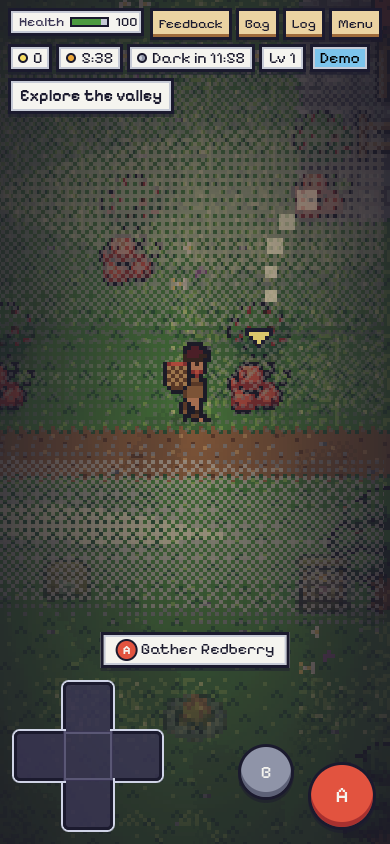
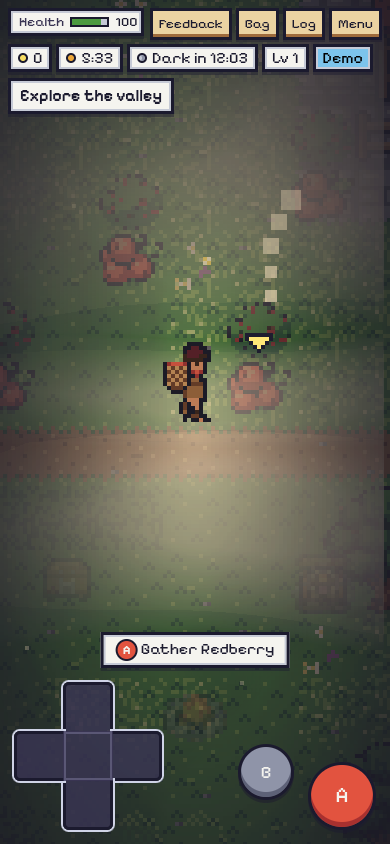
fix(client): fog reads pale like fog, and the cloud shade is seen
The owner's notes: the first cut of the banks was coarse and read as smoke,
and the clouds never showed at all.

- the banks are a pale veil now, `#f5f4ef` over a `#c6cad6` rim at up to 80%
  of their own alpha, brightest through the middle and gone at the rim, with
  no dither: fog reads white, not grey dots
- both layers are baked at the world's density of four, so a texel lands on a
  screen pixel instead of a block of four
- the cloud shade is `#172a52` at 34% in one step with a thin rim, 192 units
  wide and anchored in the world, and drawn as three by three copies of one
  patch: a tile sprite drew its overlapping edge twice and doubled the shade,
  which is why no cloud could be seen

Changed region(s): [[0.0, 0.0308, 0.9846, 0.8009], [0.9538, 0.154, 0.9846, 0.1848], [0.3385, 0.0, 0.3692, 0.0308]]

diff --git a/game/src/scenes/world.ts b/game/src/scenes/world.ts
@@ -49,7 +49,7 @@ import { HOLE, LIGHT_POOL, dappleAt, duskAt, frameAt, nightAt, shadeAt } from '.
 import { STONE_GLIDE_MS, STONE_STEPS, type StoneView, stoneView } from '../stone';
 import { type Clear, mistClears, mistDensity, mistPixels, mistRadius, mistStep, moteAt } from '../mist';
 import { FOG_ATLAS, FOG_ATLAS_W, FOG_FEATHER, FOG_OFFSETS, FOG_TILE, fogPixels } from '../fog';
-import { BANK_DRIFT, BANK_TILE, CLOUD_TILE, bankPixels, cloudOffset, cloudPixels, fogStrength } from '../sky';
+import { AIR_DENSITY, BANK_DRIFT, BANK_TILE, CLOUD_TILE, bankPixels, cloudOffset, cloudPixels, fogStrength } from '../sky';
 import { DIRS, type Dir } from '../input';
 import { ECHOES, WHISPERS, pickOf } from '../lore';
 import { TOO_DARK, feedTooLate, fireLow, fireName, readable, woodToFeed } from '../fires';
@@ -302,8 +302,8 @@ export class WorldScene extends Phaser.Scene {
   private campGlows = new Map<string, Glow>();
   private embers = new Map<string, Emitter>();
   private fogs: Phaser.GameObjects.Image[] = [];
-  /** the cloud shade over the ground by day, and the fog banks that lie in the valley (sky.ts) */
-  private cloud?: Phaser.GameObjects.TileSprite;
+  /** the cloud shade over the ground by day, one patch repeated, and the fog banks that lie in the valley (sky.ts) */
+  private clouds: Phaser.GameObjects.Image[] = [];
   private banks: { spr: Phaser.GameObjects.TileSprite; drift: number; at: number }[] = [];
   private fogMotes: Emitter[] = [];
   private dapples: Phaser.GameObjects.TileSprite[] = [];
@@ -1302,13 +1302,22 @@ export class WorldScene extends Phaser.Scene {
    */
   private buildAir(): void {
     if (!RICH.light) return;
-    const cloudTex = this.textures.createCanvas('fx-cloud', CLOUD_TILE, CLOUD_TILE);
+    // both textures are baked at the world's own density, so a texel lands on a screen pixel and no shape is
+    // drawn twice its size; a tile is then a quarter of its own pixels, which tileScale says
+    const side = CLOUD_TILE * AIR_DENSITY;
+    const cloudTex = this.textures.createCanvas('fx-cloud', side, side);
     if (cloudTex) {
-      const img = cloudTex.getContext().createImageData(CLOUD_TILE, CLOUD_TILE);
-      img.data.set(cloudPixels());
+      const img = cloudTex.getContext().createImageData(side, side);
+      img.data.set(cloudPixels(side));
       cloudTex.getContext().putImageData(img, 0, 0);
       cloudTex.refresh();
-      this.cloud = this.add.tileSprite(0, 0, T, T, 'fx-cloud').setOrigin(0).setDepth(DEPTH.flat - 0.3).setAlpha(0);
+      // three by three copies of one patch: a tile sprite drew its overlapping edge twice and doubled the shade
+      for (let j = 0; j < 3; j++) {
+        for (let i = 0; i < 3; i++) {
+          const img = this.add.image(0, 0, 'fx-cloud').setOrigin(0).setScale(1 / AIR_DENSITY).setDepth(DEPTH.flat - 0.3).setAlpha(0);
+          this.clouds.push(img);
+        }
+      }
     }
     const banks = [
       { key: 'fx-bank-high', tile: BANK_TILE.high, drift: BANK_DRIFT.high, at: 0.22, seed: 1.7 },
@@ -1317,13 +1326,15 @@ export class WorldScene extends Phaser.Scene {
     ];
     for (const b of banks) {
       const wide = 24 * T;
-      const tex = this.textures.createCanvas(b.key, wide, b.tile);
+      const px = wide * AIR_DENSITY;
+      const ph = b.tile * AIR_DENSITY;
+      const tex = this.textures.createCanvas(b.key, px, ph);
       if (!tex) continue;
-      const img = tex.getContext().createImageData(wide, b.tile);
-      img.data.set(bankPixels(wide, b.tile, b.seed));
+      const img = tex.getContext().createImageData(px, ph);
+      img.data.set(bankPixels(px, ph, b.seed));
       tex.getContext().putImageData(img, 0, 0);
       tex.refresh();
-      const spr = this.add.tileSprite(0, 0, wide / 2, b.tile, b.key).setOrigin(0).setAlpha(0);
+      const spr = this.add.tileSprite(0, 0, wide / 2, b.tile, b.key).setOrigin(0).setAlpha(0).setTileScale(1 / AIR_DENSITY);
       this.banks.push({ spr, drift: b.drift, at: b.at });
     }
   }
@@ -1334,11 +1345,14 @@ export class WorldScene extends Phaser.Scene {
    */
   private driftAir(time: number, delta: number): void {
     const view = this.cameras.main.worldView;
-    if (this.cloud) {
+    if (this.clouds.length > 0) {
+      // the patch is anchored in the world and wraps at its own edge, so the copies hand the cloud on to each other
       const off = cloudOffset(time);
-      this.cloud.setPosition(view.x - CLOUD_TILE / 2, view.y - CLOUD_TILE / 2);
-      this.cloud.setSize(view.width + CLOUD_TILE, view.height + CLOUD_TILE);
-      this.cloud.setTilePosition(view.x + off.x, view.y + off.y);
+      const dx = ((off.x % CLOUD_TILE) + CLOUD_TILE) % CLOUD_TILE;
+      const dy = ((off.y % CLOUD_TILE) + CLOUD_TILE) % CLOUD_TILE;
+      const left = Math.floor(view.x) - CLOUD_TILE + dx;
+      const top = Math.floor(view.y) - CLOUD_TILE + dy;
+      this.clouds.forEach((img, k) => img.setPosition(left + (k % 3) * CLOUD_TILE, top + Math.floor(k / 3) * CLOUD_TILE));
     }
     for (const b of this.banks) {
       b.spr.setPosition(view.x - b.spr.width / 2, view.y + view.height * b.at - b.spr.height / 2);
@@ -2094,10 +2108,10 @@ export class WorldScene extends Phaser.Scene {
     for (const d of this.dapples) d.setAlpha(dappleAt(this.night));
     // the cloud shade goes with the sun; the banks gather before dawn and after dusk (sky.ts)
     const fog = fogStrength(minute);
-    this.cloud?.setAlpha(1 - this.night);
+    for (const c of this.clouds) c.setAlpha(1 - this.night);
     // the banks keep their pale tone through the dark, so the night's one shade does not swallow them
-    const weight = [0.6, 0.45, 0.85];
-    this.banks.forEach((b, i) => b.spr.setAlpha(Math.min(0.85, fog * (weight[i] ?? 0.6) * (1 + 0.7 * this.night))));
+    const weight = [0.9, 0.7, 1];
+    this.banks.forEach((b, i) => b.spr.setAlpha(Math.min(0.95, fog * (weight[i] ?? 0.9) * (1 + 0.4 * this.night))));
     this.showHazards(s);
     const isNight = this.night >= 0.5;
     if (isNight !== this.wasNight) {

diff --git a/game/src/sky.ts b/game/src/sky.ts
@@ -6,17 +6,22 @@
 import { T } from './config';
 
 /** Side of the cloud shade patch, in art pixels. It wraps, so one tile covers the view at any scroll. */
-export const CLOUD_TILE = 128;
-/** The ink over the ground: `#1b1a2e` at 12%, the number STYLE section 7 gives. */
-export const CLOUD_ALPHA = Math.round(0.15 * 255);
+export const CLOUD_TILE = 192;
+/** The ink over the ground: `#1b1a2e` at 12% at a cloud's rim and 28% through its heart, so the shape reads. */
+export const CLOUD_ALPHA = Math.round(0.34 * 255);
+/** The rim's share of `CLOUD_ALPHA`, at the very edge of a cloud. */
+export const CLOUD_RIM = 0.43;
+/** Art pixels a screen pixel: the world camera runs at four, so a texture is baked at this density to stay sharp. */
+export const AIR_DENSITY = 4;
 /** How the patch drifts, art pixels a second: a slow cross-wind, the same one the fire leans with. */
 export const CLOUD_DRIFT = { x: 1.7, y: 0.55 } as const;
 
-const INK = [0x1b, 0x1a, 0x2e] as const;
-const BAYER = [0, 8, 2, 10, 12, 4, 14, 6, 3, 11, 1, 9, 15, 7, 13, 5] as const;
+const INK = [0x17, 0x2a, 0x52] as const;
 
-/** The three tones of a bank: its rim, its body and its crest, all from the grey ramp. */
-export const BANK_RGB = { rim: [0x8f, 0x94, 0xa8], body: [0xc6, 0xca, 0xd6], crest: [0xf5, 0xf4, 0xef] } as const;
+/** The three tones of a bank, at the pale end of the grey ramp: a light rim and a near-white body. */
+export const BANK_RGB = { rim: [0xc6, 0xca, 0xd6], body: [0xf5, 0xf4, 0xef], crest: [0xf5, 0xf4, 0xef] } as const;
+/** How solid a bank's heart is: a veil, not a wall, so the ground still reads under it. */
+export const BANK_ALPHA = 0.8;
 
 /** The cloud shade's field at an art pixel of the patch: three wrapped harmonics, so the patch tiles seamlessly. */
 export function cloudField(x: number, y: number, size = CLOUD_TILE): number {
@@ -32,21 +37,24 @@ export function cloudField(x: number, y: number, size = CLOUD_TILE): number {
 }
 
 /**
- * One patch of cloud shade as RGBA bytes: the ink at `CLOUD_ALPHA` inside a cloud, nothing outside, and a rim
- * thinned in dots so the shape has no straight edge. A patch tiles with itself on all four sides.
+ * One patch of cloud shade as RGBA bytes: the ink at `CLOUD_ALPHA` through the middle of a cloud, thinning over
+ * the last fifth of its edge so the shape has no cut line. A patch tiles with itself on all four sides.
  */
-export function cloudPixels(size = CLOUD_TILE): Uint8ClampedArray<ArrayBuffer> {
+export function cloudPixels(size = CLOUD_TILE * AIR_DENSITY): Uint8ClampedArray<ArrayBuffer> {
   const out = new Uint8ClampedArray(new ArrayBuffer(size * size * 4));
   for (let y = 0; y < size; y++) {
     for (let x = 0; x < size; x++) {
       const f = cloudField(x, y, size);
-      const rim = (BAYER[(y & 3) * 4 + (x & 3)]! + 0.5) / 16;
-      if (f <= 0.56 + 0.06 * rim) continue;
+      // a wider sky under cloud than the field's own half, so a cloud is met often and its edge is a ramp
+      // a shade has an edge, not a fog: one step in, and a rim of two hundredths of the field to soften it
+      const edge = Math.min(1, Math.max(0, (f - 0.5) / 0.02));
+      if (edge <= 0) continue;
+      const heart = 1;
       const i = 4 * (y * size + x);
       out[i] = INK[0];
       out[i + 1] = INK[1];
       out[i + 2] = INK[2];
-      out[i + 3] = CLOUD_ALPHA;
+      out[i + 3] = Math.round(CLOUD_ALPHA * edge * (CLOUD_RIM + (1 - CLOUD_RIM) * heart));
     }
   }
   return out;
@@ -65,23 +73,25 @@ export function cloudOffset(tick: number): { x: number; y: number } {
  */
 export function bankPixels(w: number, h: number, seed: number, crest = true): Uint8ClampedArray<ArrayBuffer> {
   const out = new Uint8ClampedArray(new ArrayBuffer(w * h * 4));
+  const s = seed * 97;
   for (let y = 0; y < h; y++) {
     for (let x = 0; x < w; x++) {
       // the band's own centre line rises and falls along its length, so neither edge is a straight line
-      const centre = 0.5 + 0.09 * Math.sin(x / 113 + seed) + 0.05 * Math.sin(x / 47 + seed * 2.3);
+      const centre = 0.5 + 0.09 * Math.sin(x / (w / 7) + s) + 0.05 * Math.sin(x / (w / 17) + s * 2.3);
+      const fy = Math.max(0, 1 - Math.abs((y + 0.5) / h - centre) * 2);
+      const wob = 0.72 + 0.28 * Math.sin(x / (w / 11) + s) * Math.cos(x / (w / 5.2) + s * 1.7);
       // a window at each edge, so a band whose middle wanders up still leaves the rows above it clear
-      const edge = Math.min(1, (y + 0.5) / (h * 0.1), (h - y - 0.5) / (h * 0.1));
-      const fy = Math.max(0, 1 - Math.abs((y + 0.5) / h - centre) * 2) * Math.max(0, edge);
-      const wob = 0.66 + 0.34 * Math.sin(x / 71 + seed) * Math.cos(x / 149 + seed * 1.7);
-      const v = Math.pow(fy, 0.5) * wob;
-      const step = (BAYER[(y & 3) * 4 + (x & 3)]! + 0.5) / 16;
-      if (v <= step) continue;
-      const c = crest && v > 0.62 ? BANK_RGB.crest : v > 0.3 ? BANK_RGB.body : BANK_RGB.rim;
+      const win = Math.min(1, (y + 0.5) / (h * 0.12), (h - y - 0.5) / (h * 0.12));
+      const v = Math.pow(fy, 0.55) * wob * Math.max(0, win);
+      // a soft veil: the band's own colour at a low alpha, brightest at its heart, gone at its rim
+      const a = Math.min(1, Math.max(0, (v - 0.08) / 0.55));
+      if (a <= 0) continue;
+      const c = crest && v > 0.6 ? BANK_RGB.crest : v > 0.3 ? BANK_RGB.body : BANK_RGB.rim;
       const i = 4 * (y * w + x);
       out[i] = c[0];
       out[i + 1] = c[1];
       out[i + 2] = c[2];
-      out[i + 3] = 255;
+      out[i + 3] = Math.round(255 * a * BANK_ALPHA);
     }
   }
   return out;
@@ -101,4 +111,4 @@ export function fogStrength(minute: number): number {
 export const BANK_DRIFT = { high: 2.2, thin: 3.1, low: 3.6 } as const;
 
 /** A tile of a bank's own height: the high bank hung over the valley, the low one on the ground. */
-export const BANK_TILE = { high: 5 * T, thin: 2 * T, low: 3 * T } as const;
+export const BANK_TILE = { high: 6 * T, thin: 2 * T, low: 4 * T } as const;

diff --git a/game/test/sky.test.ts b/game/test/sky.test.ts
@@ -1,5 +1,5 @@
 import { describe, expect, it } from 'vitest';
-import { BANK_RGB, BANK_TILE, CLOUD_ALPHA, CLOUD_TILE, bankPixels, cloudField, cloudOffset, cloudPixels, fogStrength } from '../src/sky';
+import { AIR_DENSITY, BANK_ALPHA, BANK_RGB, BANK_TILE, CLOUD_ALPHA, CLOUD_TILE, bankPixels, cloudField, cloudOffset, cloudPixels, fogStrength } from '../src/sky';
 
 /** The alpha and colour of one pixel of an RGBA buffer. */
 function at(buf: Uint8ClampedArray, w: number, x: number, y: number): [number, number, number, number] {
@@ -13,24 +13,29 @@ describe('the cloud shade', () => {
     for (const x of [0, 17, 64, 127]) expect(cloudField(x, 0)).toBeCloseTo(cloudField(x, CLOUD_TILE), 6);
   });
 
-  it('is ink at 12 to 15 percent, whole pixels, nothing in between', () => {
+  it('is ink at 15 percent through a cloud, thinning at its rim, never above its own alpha', () => {
+    const side = CLOUD_TILE * AIR_DENSITY;
     const px = cloudPixels();
-    expect(px.length).toBe(CLOUD_TILE * CLOUD_TILE * 4);
+    expect(px.length).toBe(side * side * 4);
+    expect(CLOUD_ALPHA).toBe(Math.round(0.34 * 255));
     let covered = 0;
-    for (let y = 0; y < CLOUD_TILE; y++) {
-      for (let x = 0; x < CLOUD_TILE; x++) {
-        const [r, g, b, a] = at(px, CLOUD_TILE, x, y);
-        expect([0, CLOUD_ALPHA]).toContain(a);
+    let soft = 0;
+    for (let y = 0; y < side; y++) {
+      for (let x = 0; x < side; x++) {
+        const [r, g, b, a] = at(px, side, x, y);
+        expect(a).toBeLessThanOrEqual(CLOUD_ALPHA);
         if (a === 0) continue;
         covered++;
-        expect([r, g, b]).toEqual([0x1b, 0x1a, 0x2e]);
+        if (a < CLOUD_ALPHA) soft++;
+        expect([r, g, b]).toEqual([0x17, 0x2a, 0x52]);
       }
     }
-    expect(CLOUD_ALPHA).toBe(Math.round(0.15 * 255));
-    // a cloud covers a share of the patch, not all of it and not none: the view can sit inside one or between two
-    const share = covered / (CLOUD_TILE * CLOUD_TILE);
-    expect(share).toBeGreaterThan(0.2);
-    expect(share).toBeLessThan(0.75);
+    // a cloud covers a share of the patch, not all of it and not none, and its edge is a ramp rather than a cut
+    const share = covered / (side * side);
+    expect(share).toBeGreaterThan(0.15);
+    expect(share).toBeLessThan(0.6);
+    // the rim is thin: a shade has an edge, so only a little of the patch is between ink and clear
+    expect(soft / covered).toBeLessThan(0.15);
   });
 
   it('drifts on one wind, moving a little more every second', () => {
@@ -50,24 +55,33 @@ describe('the fog banks', () => {
     const px = bankPixels(W, H, 1.7);
     const rowShare = (y: number) => {
       let n = 0;
-      for (let x = 0; x < W; x++) if (at(px, W, x, y)[3] === 255) n++;
+      for (let x = 0; x < W; x++) if (at(px, W, x, y)[3] > 0) n++;
       return n / W;
+    };
+    const rowAlpha = (y: number) => {
+      let n = 0;
+      for (let x = 0; x < W; x++) n += at(px, W, x, y)[3];
+      return n / W / (255 * BANK_ALPHA);
     };
     // its very edges thin to a few dots and its middle is a sheet, so it has no straight border
     expect(rowShare(0)).toBeLessThan(0.15);
     expect(rowShare(H - 1)).toBeLessThan(0.15);
-    expect(rowShare(Math.round(H / 2))).toBeGreaterThan(0.7);
+    expect(rowShare(Math.round(H / 2))).toBeGreaterThan(0.95);
+    // and the veil is thick there rather than a few pale dots
+    expect(rowAlpha(Math.round(H / 2))).toBeGreaterThan(0.55);
   });
 
-  it('uses the grey ramp and whole pixels only', () => {
+  it('is a pale veil: the light end of the ramp and an alpha under its own cap', () => {
     const px = bankPixels(W, H, 4.3);
     const tones = new Set(Object.values(BANK_RGB).map((c) => c.join(',')));
     for (let y = 0; y < H; y++) {
       for (let x = 0; x < W; x++) {
         const [r, g, b, a] = at(px, W, x, y);
         if (a === 0) continue;
-        expect(a).toBe(255);
+        expect(a).toBeLessThanOrEqual(Math.round(255 * BANK_ALPHA));
         expect(tones.has([r, g, b].join(','))).toBe(true);
+        // nothing darker than the light rim: fog reads white, not smoke
+        expect(Math.min(r, g, b)).toBeGreaterThanOrEqual(0xc6);
       }
     }
   });

diff --git a/DECISIONS.md b/DECISIONS.md
@@ -1943,7 +1943,7 @@ As built, the two reads travel with the reply: the list of appear nodes that sta
 ## 2026-10-20 ✅ The air over the valley: cloud shade by day, fog banks at dawn and at night (the owner's pick of three stills)
 
 The owner asked for fog and clouds carried as far as *Graveyard Keeper* carries them. Three phone stills were put to him at 390x844, each one named difference and each captured from the built game (`docs/design/frames/2026-10-20-air-clouds.png`, `-dawn.png`, `-night.png`): **A** one patch of cloud shade crossing the ground by day, **B** two and then three pale dithered banks lying in the valley before dawn, **C** the same banks at night with the lantern's pool cut through them. He answered: keep all three as they are, and go on sharpening them. So the direction is the three together, and the numbers below are the compass until he says otherwise.
-As built on `feat/fog-clouds` (`game/src/sky.ts`, pure, and `game/src/scenes/world.ts`): the shade is `#1b1a2e` at 15% (STYLE section 7 asks for 12%, which on this palette read as nothing at phone size; he saw 15% and kept it), one 128 px patch of three wrapped harmonics so it tiles with itself, anchored in the world and drifting 1.7 px right and 0.55 px down a second, gone as the night comes. The banks are three bands 5, 2 and 3 tiles tall at 22%, 46% and 64% of the view, ordered-dithered in the grey ramp (`#8f94a8`, `#c6cad6`, `#f5f4ef`), their middle line wandering along the length so neither edge is straight, drifting 2.2, 3.1 and 3.6 px a second. `fogStrength(minute)` gathers them before 05:30, clears them at midday and brings them back after dusk, and they lift their own weight at night rather than sitting darker. Both layers sit under the mist's veil, so the stencil that keeps the haze off the player keeps them off too, and reduced motion (`RICH.motion` off) keeps the banks and loses only their drift.
+As built on `feat/fog-clouds` (`game/src/sky.ts`, pure, and `game/src/scenes/world.ts`): the shade is `#172a52` at 34% in one step, with a two-hundredths rim to soften the cut (STYLE section 7 asks for `#1b1a2e` at 12%, which on this palette read as nothing at phone size; the owner's first note was that the clouds never showed), a 192-unit patch of three wrapped harmonics repeated three by three and anchored in the world, drifting 1.7 units right and 0.55 down a second, gone as the night comes. The banks are three bands 6, 2 and 4 tiles tall at 22%, 46% and 64% of the view, a **pale veil rather than a dither**: `#f5f4ef` at its heart over a `#c6cad6` rim, up to 80% of its own alpha, brightest in the middle and gone at the rim, their centre line wandering along the length so neither edge is straight, drifting 2.2, 3.1 and 3.6 px a second. He saw the first cut of them as dots and said the fog was coarse and read as smoke: hence the veil and the near-white, and hence both textures are baked at the world's own density of four so a texel lands on a screen pixel instead of a block of four. `fogStrength(minute)` gathers them before 05:30, clears them at midday and brings them back after dusk, and they lift their own weight at night rather than sitting darker. Both layers sit under the mist's veil, so the stencil that keeps the haze off the player keeps them off too, and reduced motion (`RICH.motion` off) keeps the banks and loses only their drift.
 **Not built, and next if he wants it:** fog that pools in hollows and by water rather than in bands across the view, a bank that lifts as the sun climbs instead of thinning, and rain or snow, which is weather and needs a rule of its own (G48 keeps weather off a burn, so it is not a look-only change).
 **Retry when:** the banks hide a wolf's eyes or a hazard before it is read (then they thin or go behind the light direction), or a mid phone drops frames with the three bands in view (then they fall behind `RICH.light` alone rather than all three).
 **Model:** claude-opus-5-5.
